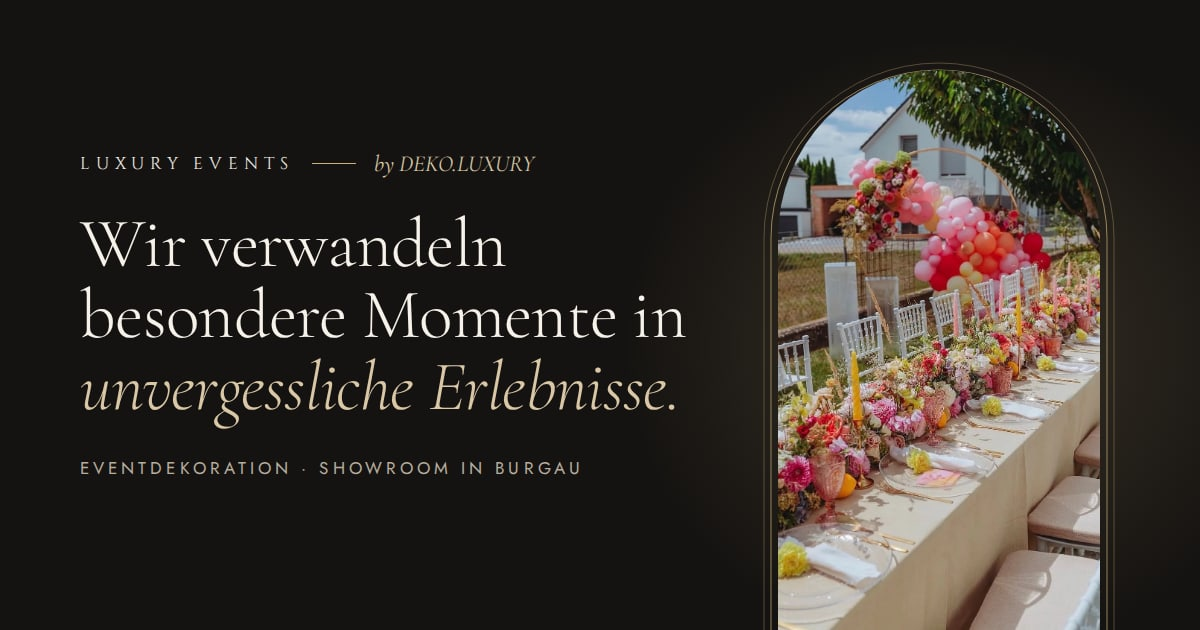
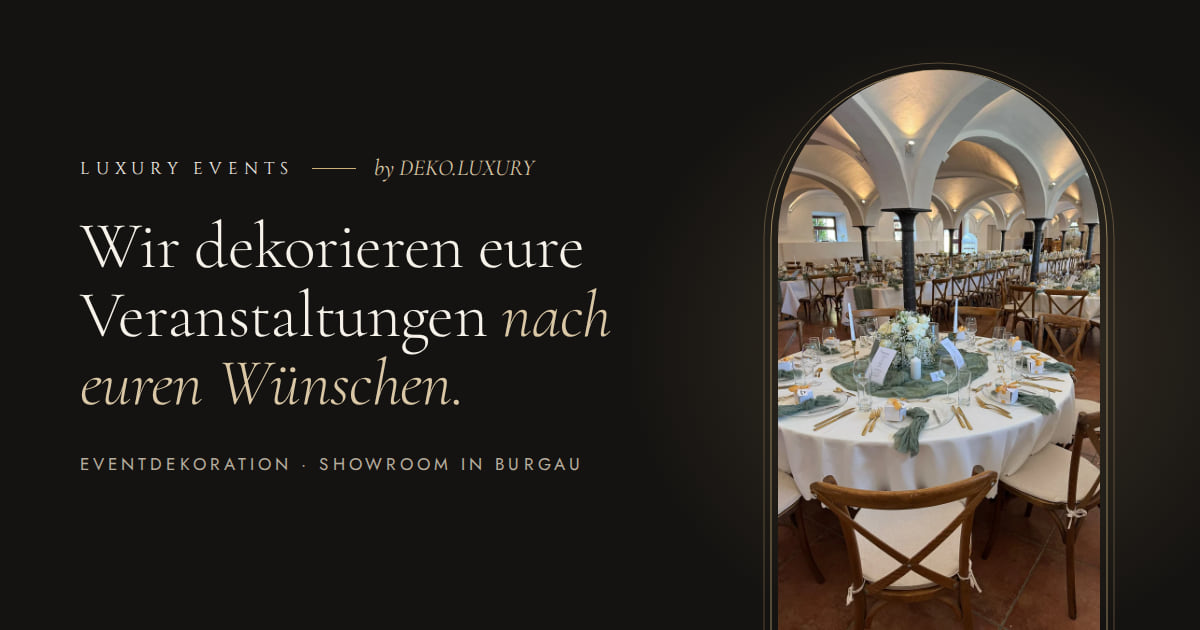
Use the new photos and add phone, WhatsApp and Instagram
- Replace all previous photos with five new ones (galerie-01 … 05):
  hero slideshow, "Über uns" and the gallery (3 on top, 2 centred below;
  two columns on phones). Old portfolio, service and style images removed.
- Phone/WhatsApp +49 179 4310823 and Instagram @deko.luxury wired into
  every contact button, footer, FAQ, imprint and structured data. Links
  are also in the HTML so they work without JavaScript.
- Privacy page mentions the WhatsApp and Instagram links.
- New social preview image with the current slogan and photo.
- Image tool and README updated to the new file names.

Claude-Session: https://claude.ai/code/session_01E6abPdmqHFWZudjWYUttDe

diff --git a/deko-luxury/index.html b/deko-luxury/index.html
@@ -30,7 +30,7 @@
 
   <link rel="preload" href="assets/fonts/cormorant-garamond.woff2" as="font" type="font/woff2" crossorigin>
   <link rel="preload" href="assets/fonts/jost.woff2" as="font" type="font/woff2" crossorigin>
-  <link rel="preload" as="image" href="assets/img/portfolio-02-800.webp" imagesrcset="assets/img/portfolio-02-600.webp 600w, assets/img/portfolio-02-800.webp 800w, assets/img/portfolio-02-1600.webp 1600w" imagesizes="(min-width: 900px) 40vw, 68vw" fetchpriority="high">
+  <link rel="preload" as="image" href="assets/img/galerie-01-900.webp" imagesrcset="assets/img/galerie-01-600.webp 600w, assets/img/galerie-01-900.webp 900w, assets/img/galerie-01-1500.webp 1500w" imagesizes="(min-width: 900px) 40vw, 68vw" fetchpriority="high">
   <link rel="stylesheet" href="assets/css/style.css">
   <script>
     (function (d) {
@@ -44,7 +44,7 @@
   <script src="assets/js/main.js" defer></script>
 
   <!-- Strukturierte Daten (Local SEO). Nur echte Angaben verwenden.
-       TODO ergänzen, sobald bekannt: "url", "image", "logo" (absolute URLs), "telephone", "sameAs" (Instagram-Profil).
+       TODO ergänzen, sobald die Domain feststeht: "url", "image", "logo" (absolute URLs).
        Öffnungszeiten laut Inhaber: 24/7. -->
   <script type="application/ld+json">
   {
@@ -55,6 +55,8 @@
     "slogan": "Wir dekorieren eure Veranstaltungen nach euren Wünschen",
     "description": "Eventdekoration für Hochzeiten, Geburtstage, Firmenveranstaltungen und private Feiern – individuell geplant und mit Liebe zum Detail umgesetzt. Showroom in Burgau.",
     "email": "deko.luxury@gmx.de",
+    "telephone": "+49 179 4310823",
+    "sameAs": ["https://www.instagram.com/deko.luxury/"],
     "address": {
       "@type": "PostalAddress",
       "streetAddress": "Kapuzinerstr. 4",
@@ -138,7 +140,7 @@
         "name": "Wie erreichen wir euch am schnellsten?",
         "acceptedAnswer": {
           "@type": "Answer",
-          "text": "Über das Anfrageformular oder per E-Mail an deko.luxury@gmx.de."
+          "text": "Per Telefon oder WhatsApp unter +49 179 4310823, über das Anfrageformular oder per E-Mail an deko.luxury@gmx.de."
         }
       }
     ]
@@ -264,8 +266,7 @@
           <p class="hero__lead">Hochzeiten, Geburtstage, Firmenfeiern und private Feste – individuell geplant und mit Liebe zum Detail umgesetzt. Showroom in Burgau.</p>
           <div class="hero__actions">
             <a class="btn btn--foil" href="#kontakt" data-cta>Beratung anfragen <svg class="btn__arrow" viewBox="0 0 34 10" aria-hidden="true"><path d="M0 5h32M28 1l4 4-4 4"/></svg></a>
-            <!-- WhatsApp-Nummer in assets/js/main.js unter KONTAKT eintragen (TODO) -->
-            <a class="btn btn--ghost" href="#kontakt" data-contact="whatsapp"><svg class="btn__icon" viewBox="0 0 24 24" aria-hidden="true"><use href="#i-whatsapp"/></svg>WhatsApp</a>
+            <a class="btn btn--ghost" href="https://wa.me/491794310823" target="_blank" rel="noopener" data-contact="whatsapp"><svg class="btn__icon" viewBox="0 0 24 24" aria-hidden="true"><use href="#i-whatsapp"/></svg>WhatsApp</a>
           </div>
           <p class="status status--hero"><span class="status__dot" aria-hidden="true"></span><span><strong>Jetzt geöffnet</strong> · 24/7 · Kapuzinerstr. 4, Burgau</span></p>
         </div>
@@ -277,13 +278,13 @@
               <path pathLength="1" d="M0 645 V270 A270 270 0 0 1 540 270 V645"/>
             </svg>
             <div class="hero__window">
-              <img class="hero__slide is-active" src="assets/img/portfolio-02-800.webp" srcset="assets/img/portfolio-02-600.webp 600w, assets/img/portfolio-02-800.webp 800w, assets/img/portfolio-02-1600.webp 1600w" sizes="(min-width: 900px) 40vw, 68vw" width="1600" height="2019" fetchpriority="high" decoding="async" data-cat="Table Styling" data-title="Sommertafel im Garten" alt="Lange Gartentafel mit üppigen Blumen in Pink, Koralle und Gelb, Kerzen, Goldbesteck und Ballonbogen">
-              <img class="hero__slide" src="assets/img/portfolio-08-800.webp" srcset="assets/img/portfolio-08-600.webp 600w, assets/img/portfolio-08-800.webp 800w, assets/img/portfolio-08-1600.webp 1600w" sizes="(min-width: 900px) 40vw, 68vw" width="1600" height="1981" loading="lazy" decoding="async" data-cat="Birthdays" data-title="Unterwasserwelt zum ersten Geburtstag" alt="Ballongirlande in Hellblau und Weiß mit Seesternen, Quallen und Fischernetz an einer weißen Rundwand zum ersten Geburtstag">
-              <img class="hero__slide" src="assets/img/portfolio-03-800.webp" srcset="assets/img/portfolio-03-600.webp 600w, assets/img/portfolio-03-800.webp 800w, assets/img/portfolio-03-1600.webp 1600w" sizes="(min-width: 900px) 40vw, 68vw" width="1600" height="2127" loading="lazy" decoding="async" data-cat="Birthdays" data-title="Erdbeeren zum ersten Geburtstag" alt="Rosa Bogenwand mit Ballongirlande, Erdbeer-Folienballons und leuchtender 1 zum ersten Geburtstag">
+              <img class="hero__slide is-active" src="assets/img/galerie-01-900.webp" srcset="assets/img/galerie-01-600.webp 600w, assets/img/galerie-01-900.webp 900w, assets/img/galerie-01-1500.webp 1500w" sizes="(min-width: 900px) 40vw, 68vw" width="1500" height="2000" fetchpriority="high" decoding="async" data-cat="Table Styling" data-title="Festsaal in Salbeigrün &amp; Gold" alt="Festsaal mit weißen Gewölbebögen, runden Tafeln in Weiß, salbeigrünen Läufern und Servietten, Goldbesteck, weißen Blumen und Kerzen">
+              <img class="hero__slide" src="assets/img/galerie-02-900.webp" srcset="assets/img/galerie-02-600.webp 600w, assets/img/galerie-02-900.webp 900w, assets/img/galerie-02-1500.webp 1179w" sizes="(min-width: 900px) 40vw, 68vw" width="1179" height="1563" loading="lazy" decoding="async" data-cat="Baby Party" data-title="Oh Baby in Weiß" alt="Leuchtbuchstaben „OH BABY“ vor einer weißen Ballonwand, dazu eine runde Tafel mit weißen Ballons, Teddybär, Kerzen und Pampasgras unter Lichterketten">
+              <img class="hero__slide" src="assets/img/galerie-03-900.webp" srcset="assets/img/galerie-03-600.webp 600w, assets/img/galerie-03-900.webp 900w, assets/img/galerie-03-1500.webp 1500w" sizes="(min-width: 900px) 40vw, 68vw" width="1500" height="2000" loading="lazy" decoding="async" data-cat="Table Styling" data-title="Sommertafel mit Blüten &amp; Limetten" alt="Nahaufnahme einer Tafel mit Dahlien, Hortensien und gelben Blüten, salbeigrünem Läufer, grünen Kristallgläsern und Limetten auf den Tellern">
             </div>
           </div>
           <figcaption class="hero__cap">
-            <span class="hero__cap-text"><span class="hero__cap-cat" data-slide-cat>Table Styling</span><span class="hero__cap-title" data-slide-title>Sommertafel im Garten</span></span>
+            <span class="hero__cap-text"><span class="hero__cap-cat" data-slide-cat>Table Styling</span><span class="hero__cap-title" data-slide-title>Festsaal in Salbeigrün &amp; Gold</span></span>
             <span class="hero__cap-count" data-slide-count>01 / 03</span>
             <button type="button" class="hero__pause" data-slide-pause aria-pressed="false" aria-label="Bildwechsel pausieren"><svg viewBox="0 0 24 24" aria-hidden="true"><path class="i-pause" d="M9 6v12M15 6v12"/><path class="i-play" d="M8 5.5v13l11-6.5z"/></svg></button>
           </figcaption>
@@ -344,7 +345,7 @@
           </ul>
         </div>
         <figure class="about__media" data-reveal-img>
-          <span class="about__frame"><span class="about__par"><img src="assets/img/stil-700.webp" srcset="assets/img/stil-700.webp 700w, assets/img/stil-1400.webp 1400w" sizes="(min-width: 900px) 40vw, 92vw" width="1400" height="1587" loading="lazy" decoding="async" alt="Sesselecke mit weißen Bögen, Blumen in Creme und gedecktem Tisch im warmen Licht"></span></span>
+          <span class="about__frame"><span class="about__par"><img src="assets/img/galerie-04-600.webp" srcset="assets/img/galerie-04-600.webp 600w, assets/img/galerie-04-900.webp 900w, assets/img/galerie-04-1500.webp 909w" sizes="(min-width: 900px) 40vw, 92vw" width="909" height="1600" loading="lazy" decoding="async" alt="Hauseingang mit weißem Blütenkreis, Satinschleife an der Tür, weißem Läufer, Blumensäule und Willkommensschild"></span></span>
           <span class="about__badge" aria-hidden="true"><svg viewBox="0 0 100 100"><circle cx="50" cy="50" r="47"/><use href="#monogram" x="28.5" y="27" width="43" height="44.4"/></svg></span>
         </figure>
       </div>
@@ -444,39 +445,33 @@
         </header>
         <ul class="gal" data-gallery-grid>
           <li class="gal__item" data-reveal style="--d:0.00s">
-            <button type="button" class="gal__card" data-gallery="portfolio" data-full="assets/img/portfolio-02-1600.webp" data-category="Table Styling" data-title="Sommertafel im Garten" data-eventtyp="" data-location="" data-konzept="" data-beschreibung="">
-              <span class="gal__media"><img src="assets/img/portfolio-02-800.webp" srcset="assets/img/portfolio-02-600.webp 600w, assets/img/portfolio-02-800.webp 800w, assets/img/portfolio-02-1600.webp 1600w" sizes="(min-width: 900px) 30vw, 46vw" width="1600" height="2019" loading="lazy" decoding="async" alt="Lange Gartentafel mit üppigen Blumen in Pink, Koralle und Gelb, Kerzen, Goldbesteck und Ballonbogen"></span>
-              <span class="gal__cap"><span class="gal__cat">Table Styling</span><span class="gal__title">Sommertafel im Garten</span><span class="gal__more" aria-hidden="true">Ansehen <svg viewBox="0 0 24 24"><path d="M5 12h14M13 6l6 6-6 6"/></svg></span></span>
+            <button type="button" class="gal__card" data-gallery="portfolio" data-full="assets/img/galerie-01-1500.webp" data-category="Table Styling" data-title="Festsaal in Salbeigrün &amp; Gold" data-eventtyp="" data-location="" data-konzept="" data-beschreibung="">
+              <span class="gal__media"><img src="assets/img/galerie-01-600.webp" srcset="assets/img/galerie-01-600.webp 600w, assets/img/galerie-01-900.webp 900w, assets/img/galerie-01-1500.webp 1500w" sizes="(min-width: 900px) 30vw, 46vw" width="1500" height="2000" loading="lazy" decoding="async" alt="Festsaal mit weißen Gewölbebögen, runden Tafeln in Weiß, salbeigrünen Läufern und Servietten, Goldbesteck, weißen Blumen und Kerzen"></span>
+              <span class="gal__cap"><span class="gal__cat">Table Styling</span><span class="gal__title">Festsaal in Salbeigrün &amp; Gold</span><span class="gal__more" aria-hidden="true">Ansehen <svg viewBox="0 0 24 24"><path d="M5 12h14M13 6l6 6-6 6"/></svg></span></span>
             </button>
           </li>
           <li class="gal__item" data-reveal style="--d:0.08s">
-            <button type="button" class="gal__card" data-gallery="portfolio" data-full="assets/img/portfolio-07-1600.webp" data-category="Birthdays" data-title="Schwarz &amp; Gold zum 30." data-eventtyp="Geburtstag" data-location="" data-konzept="" data-beschreibung="">
-              <span class="gal__media"><img src="assets/img/portfolio-07-800.webp" srcset="assets/img/portfolio-07-600.webp 600w, assets/img/portfolio-07-800.webp 800w, assets/img/portfolio-07-1600.webp 1600w" sizes="(min-width: 900px) 30vw, 46vw" width="1600" height="1185" loading="lazy" decoding="async" alt="Geburtstagsdekoration in Schwarz und Gold mit runder Rückwand „Happy 30th Birthday“ und leuchtender 30"></span>
-              <span class="gal__cap"><span class="gal__cat">Birthdays</span><span class="gal__title">Schwarz &amp; Gold zum 30.</span><span class="gal__more" aria-hidden="true">Ansehen <svg viewBox="0 0 24 24"><path d="M5 12h14M13 6l6 6-6 6"/></svg></span></span>
+            <button type="button" class="gal__card" data-gallery="portfolio" data-full="assets/img/galerie-02-1500.webp" data-category="Baby Party" data-title="Oh Baby in Weiß" data-eventtyp="Baby-Party" data-location="" data-konzept="" data-beschreibung="">
+              <span class="gal__media"><img src="assets/img/galerie-02-600.webp" srcset="assets/img/galerie-02-600.webp 600w, assets/img/galerie-02-900.webp 900w, assets/img/galerie-02-1500.webp 1179w" sizes="(min-width: 900px) 30vw, 46vw" width="1179" height="1563" loading="lazy" decoding="async" alt="Leuchtbuchstaben „OH BABY“ vor einer weißen Ballonwand, dazu eine runde Tafel mit weißen Ballons, Teddybär, Kerzen und Pampasgras unter Lichterketten"></span>
+              <span class="gal__cap"><span class="gal__cat">Baby Party</span><span class="gal__title">Oh Baby in Weiß</span><span class="gal__more" aria-hidden="true">Ansehen <svg viewBox="0 0 24 24"><path d="M5 12h14M13 6l6 6-6 6"/></svg></span></span>
             </button>
           </li>
           <li class="gal__item" data-reveal style="--d:0.16s">
-            <button type="button" class="gal__card" data-gallery="portfolio" data-full="assets/img/portfolio-01-1600.webp" data-category="Baby Party" data-title="Oh Baby im Schnee" data-eventtyp="Baby-Party" data-location="" data-konzept="" data-beschreibung="">
-              <span class="gal__media"><img src="assets/img/portfolio-01-800.webp" srcset="assets/img/portfolio-01-600.webp 600w, assets/img/portfolio-01-800.webp 800w, assets/img/portfolio-01-1600.webp 1600w" sizes="(min-width: 900px) 30vw, 46vw" width="1600" height="900" loading="lazy" decoding="async" alt="Leuchtbuchstaben „OH BABY“ mit Ballonbogen in Blau, Rosé und Kupfer vor verschneiter Berglandschaft"></span>
-              <span class="gal__cap"><span class="gal__cat">Baby Party</span><span class="gal__title">Oh Baby im Schnee</span><span class="gal__more" aria-hidden="true">Ansehen <svg viewBox="0 0 24 24"><path d="M5 12h14M13 6l6 6-6 6"/></svg></span></span>
+            <button type="button" class="gal__card" data-gallery="portfolio" data-full="assets/img/galerie-03-1500.webp" data-category="Table Styling" data-title="Sommertafel mit Blüten &amp; Limetten" data-eventtyp="" data-location="" data-konzept="" data-beschreibung="">
+              <span class="gal__media"><img src="assets/img/galerie-03-600.webp" srcset="assets/img/galerie-03-600.webp 600w, assets/img/galerie-03-900.webp 900w, assets/img/galerie-03-1500.webp 1500w" sizes="(min-width: 900px) 30vw, 92vw" width="1500" height="2000" loading="lazy" decoding="async" alt="Nahaufnahme einer Tafel mit Dahlien, Hortensien und gelben Blüten, salbeigrünem Läufer, grünen Kristallgläsern und Limetten auf den Tellern"></span>
+              <span class="gal__cap"><span class="gal__cat">Table Styling</span><span class="gal__title">Sommertafel mit Blüten &amp; Limetten</span><span class="gal__more" aria-hidden="true">Ansehen <svg viewBox="0 0 24 24"><path d="M5 12h14M13 6l6 6-6 6"/></svg></span></span>
             </button>
           </li>
-          <li class="gal__item" data-reveal style="--d:0.00s">
-            <button type="button" class="gal__card" data-gallery="portfolio" data-full="assets/img/portfolio-04-1600.webp" data-category="Lounge &amp; Details" data-title="Lounge in Creme und Weiß" data-eventtyp="" data-location="" data-konzept="" data-beschreibung="">
-              <span class="gal__media"><img src="assets/img/portfolio-04-800.webp" srcset="assets/img/portfolio-04-600.webp 600w, assets/img/portfolio-04-800.webp 800w, assets/img/portfolio-04-1600.webp 1600w" sizes="(min-width: 900px) 30vw, 46vw" width="1192" height="1998" loading="lazy" decoding="async" alt="Lounge mit weißen Bögen, Plüschsesseln, Blumen in Creme und Neonschrift"></span>
-              <span class="gal__cap"><span class="gal__cat">Lounge &amp; Details</span><span class="gal__title">Lounge in Creme und Weiß</span><span class="gal__more" aria-hidden="true">Ansehen <svg viewBox="0 0 24 24"><path d="M5 12h14M13 6l6 6-6 6"/></svg></span></span>
+          <li class="gal__item" data-reveal style="--d:0.04s">
+            <button type="button" class="gal__card" data-gallery="portfolio" data-full="assets/img/galerie-04-1500.webp" data-category="Welcome &amp; Entrance" data-title="Empfang mit Blütenkreis" data-eventtyp="" data-location="" data-konzept="" data-beschreibung="">
+              <span class="gal__media"><img src="assets/img/galerie-04-600.webp" srcset="assets/img/galerie-04-600.webp 600w, assets/img/galerie-04-900.webp 900w, assets/img/galerie-04-1500.webp 909w" sizes="(min-width: 900px) 30vw, 46vw" width="909" height="1600" loading="lazy" decoding="async" alt="Hauseingang mit weißem Blütenkreis, Satinschleife an der Tür, weißem Läufer, Blumensäule und Willkommensschild"></span>
+              <span class="gal__cap"><span class="gal__cat">Welcome &amp; Entrance</span><span class="gal__title">Empfang mit Blütenkreis</span><span class="gal__more" aria-hidden="true">Ansehen <svg viewBox="0 0 24 24"><path d="M5 12h14M13 6l6 6-6 6"/></svg></span></span>
             </button>
           </li>
-          <li class="gal__item" data-reveal style="--d:0.08s">
-            <button type="button" class="gal__card" data-gallery="portfolio" data-full="assets/img/portfolio-08-1600.webp" data-category="Birthdays" data-title="Unterwasserwelt zum ersten Geburtstag" data-eventtyp="Kindergeburtstag" data-location="" data-konzept="" data-beschreibung="">
-              <span class="gal__media"><img src="assets/img/portfolio-08-800.webp" srcset="assets/img/portfolio-08-600.webp 600w, assets/img/portfolio-08-800.webp 800w, assets/img/portfolio-08-1600.webp 1600w" sizes="(min-width: 900px) 30vw, 46vw" width="1600" height="1981" loading="lazy" decoding="async" alt="Ballongirlande in Hellblau und Weiß mit Seesternen, Quallen und Fischernetz an einer weißen Rundwand zum ersten Geburtstag"></span>
-              <span class="gal__cap"><span class="gal__cat">Birthdays</span><span class="gal__title">Unterwasserwelt zum ersten Geburtstag</span><span class="gal__more" aria-hidden="true">Ansehen <svg viewBox="0 0 24 24"><path d="M5 12h14M13 6l6 6-6 6"/></svg></span></span>
-            </button>
-          </li>
-          <li class="gal__item" data-reveal style="--d:0.16s">
-            <button type="button" class="gal__card" data-gallery="portfolio" data-full="assets/img/portfolio-03-1600.webp" data-category="Birthdays" data-title="Erdbeeren zum ersten Geburtstag" data-eventtyp="Kindergeburtstag" data-location="" data-konzept="" data-beschreibung="">
-              <span class="gal__media"><img src="assets/img/portfolio-03-800.webp" srcset="assets/img/portfolio-03-600.webp 600w, assets/img/portfolio-03-800.webp 800w, assets/img/portfolio-03-1600.webp 1600w" sizes="(min-width: 900px) 30vw, 46vw" width="1600" height="2127" loading="lazy" decoding="async" alt="Rosa Bogenwand mit Ballongirlande, Erdbeer-Folienballons und leuchtender 1 zum ersten Geburtstag"></span>
-              <span class="gal__cap"><span class="gal__cat">Birthdays</span><span class="gal__title">Erdbeeren zum ersten Geburtstag</span><span class="gal__more" aria-hidden="true">Ansehen <svg viewBox="0 0 24 24"><path d="M5 12h14M13 6l6 6-6 6"/></svg></span></span>
+          <li class="gal__item" data-reveal style="--d:0.12s">
+            <button type="button" class="gal__card" data-gallery="portfolio" data-full="assets/img/galerie-05-1500.webp" data-category="Birthdays" data-title="Ballonwand in Grün &amp; Navy" data-eventtyp="Geburtstag" data-location="" data-konzept="" data-beschreibung="">
+              <span class="gal__media"><img src="assets/img/galerie-05-600.webp" srcset="assets/img/galerie-05-600.webp 600w, assets/img/galerie-05-900.webp 900w, assets/img/galerie-05-1500.webp 1125w" sizes="(min-width: 900px) 30vw, 46vw" width="1125" height="2000" loading="lazy" decoding="async" alt="Geburtstags-Rückwand in Navy und Karo mit Ballongirlande in Grün, Navy und Creme, Teddy-Aufsteller und Schaukelpferd aus Holz"></span>
+              <span class="gal__cap"><span class="gal__cat">Birthdays</span><span class="gal__title">Ballonwand in Grün &amp; Navy</span><span class="gal__more" aria-hidden="true">Ansehen <svg viewBox="0 0 24 24"><path d="M5 12h14M13 6l6 6-6 6"/></svg></span></span>
             </button>
           </li>
         </ul>
@@ -585,16 +580,17 @@
           <h2 class="h2" id="contact-title" data-reveal>Erzählt uns von <em class="foil-deep">eurem Event.</em></h2>
           <p class="contact__lead" data-reveal>Anlass, Datum, Ideen – schreibt uns ein paar Zeilen. Wir melden uns schnell und persönlich bei euch.</p>
 
-          <!-- Telefon, WhatsApp und Instagram in assets/js/main.js unter KONTAKT eintragen (TODO). -->
+          <!-- Telefon, WhatsApp und Instagram zentral in assets/js/main.js unter KONTAKT pflegen. -->
           <ul class="quick" data-reveal>
             <li><a class="quick__btn" href="mailto:deko.luxury@gmx.de" data-contact="email"><svg viewBox="0 0 24 24" aria-hidden="true"><use href="#i-mail"/></svg><span><strong>E-Mail</strong><small data-contact-label>deko.luxury@gmx.de</small></span></a></li>
-            <li><a class="quick__btn" href="#kontakt" data-contact="phone"><svg viewBox="0 0 24 24" aria-hidden="true"><use href="#i-phone"/></svg><span><strong>Kurz anrufen</strong><small data-contact-label>Nummer folgt</small></span></a></li>
-            <li><a class="quick__btn" href="#kontakt" data-contact="whatsapp"><svg viewBox="0 0 24 24" aria-hidden="true"><use href="#i-whatsapp"/></svg><span><strong>WhatsApp</strong><small data-contact-label>Nummer folgt</small></span></a></li>
-            <li><a class="quick__btn" href="#kontakt" data-contact="instagram"><svg viewBox="0 0 24 24" aria-hidden="true"><use href="#i-instagram"/></svg><span><strong>Instagram</strong><small data-contact-label>Profil folgt</small></span></a></li>
+            <li><a class="quick__btn" href="tel:+491794310823" data-contact="phone"><svg viewBox="0 0 24 24" aria-hidden="true"><use href="#i-phone"/></svg><span><strong>Kurz anrufen</strong><small data-contact-label>+49 179 4310823</small></span></a></li>
+            <li><a class="quick__btn" href="https://wa.me/491794310823" target="_blank" rel="noopener" data-contact="whatsapp"><svg viewBox="0 0 24 24" aria-hidden="true"><use href="#i-whatsapp"/></svg><span><strong>WhatsApp</strong><small data-contact-label>Chat starten</small></span></a></li>
+            <li><a class="quick__btn" href="https://www.instagram.com/deko.luxury/" target="_blank" rel="noopener" data-contact="instagram"><svg viewBox="0 0 24 24" aria-hidden="true"><use href="#i-instagram"/></svg><span><strong>Instagram</strong><small data-contact-label>@deko.luxury</small></span></a></li>
           </ul>
 
           <dl class="contact__list" data-reveal>
             <div><dt>Showroom</dt><dd>Kapuzinerstr. 4, Burgau 89331</dd></div>
+            <div><dt>Telefon</dt><dd><a href="tel:+491794310823" data-contact="phone"><span data-contact-label>+49 179 4310823</span></a></dd></div>
             <div><dt>Geöffnet</dt><dd><span class="status status--inline"><span class="status__dot" aria-hidden="true"></span><span><strong>24/7</strong> · jetzt geöffnet</span></span></dd></div>
           </dl>
         </div>
@@ -697,10 +693,9 @@
             <summary class="faq__q"><span>Was kostet eine Dekoration?</span><span class="faq__icon" aria-hidden="true"></span></summary>
             <div class="faq__a"><p>Jede Dekoration ist individuell. Der Preis hängt vom Umfang, der Location und euren Wünschen ab – sprecht uns an, dann klären wir alles im Erstgespräch.</p></div>
           </details>
-          <!-- TODO: Sobald Telefon/WhatsApp feststehen, in der letzten Antwort ergänzen. -->
           <details class="faq__item" data-reveal style="--d:0.25s">
             <summary class="faq__q"><span>Wie erreichen wir euch am schnellsten?</span><span class="faq__icon" aria-hidden="true"></span></summary>
-            <div class="faq__a"><p>Über das Anfrageformular oder per E-Mail an <a href="mailto:deko.luxury@gmx.de">deko.luxury@gmx.de</a>.</p></div>
+            <div class="faq__a"><p>Per Telefon oder WhatsApp unter <a href="tel:+491794310823">+49 179 4310823</a>, über das Anfrageformular oder per E-Mail an <a href="mailto:deko.luxury@gmx.de">deko.luxury@gmx.de</a>.</p></div>
           </details>
         </div>
       </div>
@@ -724,8 +719,8 @@
           <h2 class="footer__title">Kontakt</h2>
           <ul>
             <li><a href="mailto:deko.luxury@gmx.de" data-contact="email">deko.luxury@gmx.de</a></li>
-            <li><a href="#kontakt" data-contact="phone"><span data-contact-label>Telefon folgt</span></a></li>
-            <li><a href="#kontakt" data-contact="whatsapp"><span data-contact-label>WhatsApp folgt</span></a></li>
+            <li><a href="tel:+491794310823" data-contact="phone"><span data-contact-label>+49 179 4310823</span></a></li>
+            <li><a href="https://wa.me/491794310823" target="_blank" rel="noopener" data-contact="whatsapp">WhatsApp</a></li>
             <li><a href="#kontakt">Anfrage stellen</a></li>
           </ul>
         </div>
@@ -745,7 +740,7 @@
             <li><a href="datenschutz.html">Datenschutz</a></li>
             <li><button type="button" class="footer__btn" data-open-consent>Cookie-Einstellungen</button></li>
           </ul>
-          <a class="footer__social" href="#kontakt" data-contact="instagram"><svg viewBox="0 0 24 24" aria-hidden="true"><use href="#i-instagram"/></svg><span data-contact-label>Instagram folgt</span></a>
+          <a class="footer__social" href="https://www.instagram.com/deko.luxury/" target="_blank" rel="noopener" data-contact="instagram"><svg viewBox="0 0 24 24" aria-hidden="true"><use href="#i-instagram"/></svg><span data-contact-label>@deko.luxury</span></a>
         </div>
       </div>
     </div>
@@ -759,11 +754,11 @@
   <!-- Mini-Leiste „Beratung anfragen“: erscheint beim Scrollen, verschwindet am Kontaktformular -->
   <div class="action-bar" data-action-bar>
     <a class="action-bar__main" href="#kontakt" data-cta>Beratung anfragen</a>
-    <a class="action-bar__icon" href="#kontakt" data-contact="whatsapp" aria-label="WhatsApp"><svg viewBox="0 0 24 24" aria-hidden="true"><use href="#i-whatsapp"/></svg></a>
+    <a class="action-bar__icon" href="https://wa.me/491794310823" target="_blank" rel="noopener" data-contact="whatsapp" aria-label="WhatsApp-Chat starten"><svg viewBox="0 0 24 24" aria-hidden="true"><use href="#i-whatsapp"/></svg></a>
     <a class="action-bar__icon" href="mailto:deko.luxury@gmx.de" data-contact="email" aria-label="E-Mail an deko.luxury@gmx.de schreiben"><svg viewBox="0 0 24 24" aria-hidden="true"><use href="#i-mail"/></svg></a>
   </div>
 
-  <!-- Hinweis-Toast (z. B. wenn eine Nummer noch fehlt) -->
+  <!-- Hinweis-Toast (z. B. wenn ein Kontaktweg in KONTAKT leer ist) -->
   <div class="toast" role="status" aria-live="polite" data-toast hidden><span class="toast__text" data-toast-text></span></div>
 
   <!-- Bestätigung nach dem Absenden -->

diff --git a/deko-luxury/assets/css/style.css b/deko-luxury/assets/css/style.css
@@ -746,7 +746,7 @@ address { font-style: normal; }
 .pillar__title { font-family: var(--serif); font-weight: 400; font-size: 1.55rem; line-height: 1.15; }
 .pillar__text { color: var(--muted); margin-top: 4px; }
 .about__media { position: relative; outline: 1px solid rgba(168, 131, 76, 0.38); outline-offset: 10px; margin: 10px; }
-.about__media img { width: 100%; height: auto; }
+.about__media img { width: 100%; height: auto; aspect-ratio: 4 / 5; object-fit: cover; object-position: 50% 55%; }
 .about__badge {
   position: absolute; left: -34px; bottom: -34px; width: clamp(86px, 8vw, 118px); aspect-ratio: 1;
   display: grid; place-items: center; border-radius: 50%;
@@ -806,8 +806,11 @@ address { font-style: normal; }
 /* ---------- 5. Galerie ---------- */
 .gallery { background: var(--ink); color: var(--ivory); }
 .gallery .section-head__text { color: var(--muted-light); }
-.gal { columns: 3; column-gap: clamp(14px, 1.6vw, 24px); }
-.gal__item { break-inside: avoid; margin-bottom: clamp(14px, 1.6vw, 24px); }
+/* 3 Bilder oben, 2 mittig darunter – jedes Bild in seinem eigenen Format */
+.gal { display: grid; grid-template-columns: repeat(6, minmax(0, 1fr)); gap: clamp(14px, 1.6vw, 24px); align-items: start; }
+.gal__item { grid-column: span 2; }
+.gal__item:nth-child(4) { grid-column: 2 / span 2; }
+.gal__item:nth-child(5) { grid-column: 4 / span 2; }
 .gal__card { position: relative; display: block; width: 100%; overflow: hidden; text-align: left; cursor: zoom-in; background: var(--char); }
 .gal__media { display: block; overflow: hidden; }
 .gal__media img { width: 100%; height: auto; transition: transform 1.4s var(--ease); }
@@ -1382,7 +1385,11 @@ address { font-style: normal; }
   .hero__arch { justify-self: center; width: min(70vw, 340px); }
   .hero__ornament { right: -40vw; width: 120vw; margin-top: -60vw; top: 30%; }
   .is-scrolled .site-header__inner { height: 64px; }
-  .gal { columns: 2; }
+  /* Mobil: zwei Spalten, die Tafel-Nahaufnahme als breites Bild am Ende */
+  .gal { grid-template-columns: repeat(2, minmax(0, 1fr)); }
+  .gal__item, .gal__item:nth-child(4), .gal__item:nth-child(5) { grid-column: auto; }
+  .gal__item:nth-child(3) { order: 5; grid-column: 1 / -1; }
+  .gal__item:nth-child(3) .gal__media img { aspect-ratio: 4 / 3; object-fit: cover; object-position: 50% 62%; }
   /* Zeitstrahl wird senkrecht */
   .timeline__line--h { display: none; }
   .timeline__line--v { display: block; left: 22px; top: 32px; width: 20px; height: var(--tl-h, calc(100% - 140px)); }
@@ -1434,8 +1441,7 @@ address { font-style: normal; }
   .svc__icon svg { width: 34px; height: 34px; }
   .svc__tag { margin-bottom: 4px; }
   .svc__link { padding-top: 12px; }
-  .gal { column-gap: 10px; }
-  .gal__item { margin-bottom: 10px; }
+  .gal { gap: 10px; }
   .gal__title { font-size: 0.98rem; }
   .gal__cat { font-size: 0.54rem; letter-spacing: 0.2em; }
   .gallery__cta .btn { width: 100%; }

diff --git a/deko-luxury/datenschutz.html b/deko-luxury/datenschutz.html
@@ -71,6 +71,7 @@
 
         <h2>8. Externe Links</h2>
         <p>Der Link „Route planen“ führt zu Google Maps. Erst wenn Sie ihn anklicken, werden Daten an Google übertragen; dort gilt die Datenschutzerklärung von Google.</p>
+        <p>Die Links zu WhatsApp und Instagram sind einfache Verweise; Inhalte dieser Dienste werden auf unserer Website nicht eingebunden. Erst wenn Sie einen dieser Links anklicken, werden Sie zum jeweiligen Dienst der Meta Platforms Ireland Ltd. weitergeleitet; dort gelten deren Datenschutzbestimmungen. Wenn Sie uns über WhatsApp schreiben, verarbeiten wir Ihre Nachricht und Telefonnummer, um Ihre Anfrage zu beantworten (Art. 6 Abs. 1 lit. b bzw. f DSGVO).</p>
 
         <h2>9. Ihre Rechte</h2>
         <p>Sie haben das Recht auf Auskunft (Art. 15 DSGVO), Berichtigung (Art. 16), Löschung (Art. 17), Einschränkung der Verarbeitung (Art. 18), Datenübertragbarkeit (Art. 20) sowie Widerspruch gegen die Verarbeitung (Art. 21 DSGVO). Eine erteilte Einwilligung können Sie jederzeit mit Wirkung für die Zukunft widerrufen. Außerdem können Sie sich bei einer Datenschutz-Aufsichtsbehörde beschweren, zum Beispiel beim Bayerischen Landesamt für Datenschutzaufsicht (BayLDA).</p>

diff --git a/deko-luxury/assets/js/main.js b/deko-luxury/assets/js/main.js
@@ -2,13 +2,13 @@
 
 /* ==========================================================================
    KONTAKTDATEN – hier eintragen, dann sind alle Buttons der Website verknüpft
-   (Startbereich, Kontakt, Footer, Mini-Leiste). Leer = Button zeigt „folgt“.
+   (Startbereich, Kontakt, Footer, Mini-Leiste). Leer = Button zeigt einen Hinweis.
    ========================================================================== */
 var KONTAKT = {
   email: 'deko.luxury@gmx.de',
-  telefon: '',    // TODO z. B. '+49 8222 123456'
-  whatsapp: '',   // TODO Nummer international ohne + und Leerzeichen, z. B. '491701234567'
-  instagram: '',  // TODO z. B. 'https://www.instagram.com/profilname/'
+  telefon: '+49 179 4310823',
+  whatsapp: '491794310823',  // international, ohne + und Leerzeichen
+  instagram: 'https://www.instagram.com/deko.luxury/',
   whatsappText: 'Hallo DEKO.LUXURY, wir interessieren uns für eine Dekoration.'
 };
 

diff --git a/deko-luxury/impressum.html b/deko-luxury/impressum.html
@@ -52,7 +52,7 @@
         <h2>Kontakt</h2>
         <p>
           E-Mail: <a href="mailto:deko.luxury@gmx.de">deko.luxury@gmx.de</a><br>
-          Telefon: <span class="ph">Telefonnummer</span>
+          Telefon: <a href="tel:+491794310823">+49 179 4310823</a>
         </p>
 
         <h2>Umsatzsteuer-ID</h2>

diff --git a/deko-luxury/README.md b/deko-luxury/README.md
@@ -53,31 +53,33 @@ Alle offenen Stellen sind im Code mit **TODO** markiert und auf der Seite gestri
 
 | Wo | Was fehlt |
 | --- | --- |
-| `assets/js/main.js` → `KONTAKT` (ganz oben) | **Telefon, WhatsApp, Instagram** eintragen. Danach sind alle Buttons auf der Website automatisch verknüpft. Solange ein Feld leer ist, zeigt der Button „folgt“ und beim Klick einen freundlichen Hinweis. |
 | `index.html` → Info-Streifen | **Bewertungen**: nur echte Angaben eintragen (z. B. „4,9 ★ · 37 Google-Bewertungen“) und auf das Profil verlinken. |
-| `index.html` → FAQ | Letzte Antwort um Telefon/WhatsApp ergänzen, sobald vorhanden. |
-| `index.html` → `<head>` | Domain eintragen: `canonical`, `og:url`, `og:image`. Strukturierte Daten ergänzen: `url`, `image`, `telephone`, `sameAs` (Instagram). |
+| `index.html` → `<head>` | Domain eintragen: `canonical`, `og:url`, `og:image`. Strukturierte Daten ergänzen: `url`, `image`, `logo`. Telefon und Instagram sind bereits eingetragen. |
 | `index.html` → Strukturierte Daten | `areaServed` enthält Burgau, Ulm und Augsburg. Bitte bestätigen oder anpassen. |
-| **Einverständnis** | Auf `portfolio-03` und `portfolio-08` sind Vornamen von Kindern zu lesen. Vor der Veröffentlichung das Einverständnis einholen oder ein anderes Foto wählen. |
-| `impressum.html` | Name, Rechtsform, Telefon, USt-IdNr., Verbraucherstreitbeilegung, Bildnachweise. Die Anschrift Kapuzinerstr. 4 ist eingetragen – bitte prüfen, ob sie auch die ladungsfähige Anschrift ist. |
+| **Einverständnis** | Auf `galerie-04` sind die Vornamen des Paares zu lesen (Willkommensschild), auf `galerie-05` ein Vorname (Geburtstagsschild). Auf `galerie-02` ist im Hintergrund ein Kennzeichen teilweise erkennbar. Vor der Veröffentlichung das Einverständnis einholen, unkenntlich machen oder ein anderes Foto wählen. |
+| `impressum.html` | Name, Rechtsform, USt-IdNr., Verbraucherstreitbeilegung, Bildnachweise. Telefon ist eingetragen. Die Anschrift Kapuzinerstr. 4 ist eingetragen – bitte prüfen, ob sie auch die ladungsfähige Anschrift ist. |
 | `datenschutz.html` | Hosting-Anbieter, E-Mail-Anbieter, Stand. Bitte rechtlich prüfen lassen. |
 | `sitemap.xml`, `robots.txt` | Domain eintragen. |
 | Karte | Die interaktive Karte zeigt Burgau. Für eine Stecknadel genau am Showroom die Koordinaten in `MAP_SRC` (`assets/js/main.js`) ergänzen (`&marker=Breite,Länge`). |
 | Logo | Aus dem Screenshot vektorisiert. Liegt die Originaldatei (SVG/PDF/AI) vor, `assets/brand/logo-gold.svg`, `logo-zeile.svg` und `monogramm.svg` damit ersetzen. |
 
-## Kontaktdaten eintragen
+## Kontaktdaten
 
-Ganz oben in `assets/js/main.js`:
+Ganz oben in `assets/js/main.js` stehen alle Kontaktwege. Die Buttons in Startbereich,
+Kontakt, Footer und Mini-Leiste werden daraus verknüpft:
 
 ```js
 var KONTAKT = {
   email: 'deko.luxury@gmx.de',
-  telefon: '+49 8222 123456',          // Beispiel
-  whatsapp: '491701234567',            // international, ohne + und Leerzeichen
-  instagram: 'https://www.instagram.com/profilname/',
+  telefon: '+49 179 4310823',
+  whatsapp: '491794310823',            // international, ohne + und Leerzeichen
+  instagram: 'https://www.instagram.com/deko.luxury/',
   whatsappText: 'Hallo DEKO.LUXURY, wir interessieren uns für eine Dekoration.'
 };
 ```
+
+Die Links stehen zusätzlich direkt im HTML, damit sie auch ohne JavaScript funktionieren.
+Ändert sich eine Nummer, bitte auch in `index.html` (Suche nach `4310823`) und im Impressum anpassen.
 
 ## Lokal ansehen
 
@@ -92,7 +94,7 @@ allerdings PHP und bietet automatisch den Versand per E-Mail-Programm an.
 ## Eigene Fotos einsetzen
 
 1. Fotos in den Ordner `bilder-original/` legen und wie das zu ersetzende Bild benennen,
-   z. B. `portfolio-04.jpg` oder `stil.jpg`.
+   z. B. `galerie-02.jpg` oder `galerie-04.jpg`.
 2. `npm install` (einmalig), dann `npm run bilder`.
 3. Das Skript erzeugt alle benötigten Größen als WebP in `assets/img/`.
 4. In `index.html` die **Alt-Texte** an das neue Motiv anpassen, z. B.
@@ -100,14 +102,14 @@ allerdings PHP und bietet automatisch den Versand per E-Mail-Programm an.
 
 | Datei | Bereich | Hinweis |
 | --- | --- | --- |
-| `portfolio-01` … `-08` | Galerie (01, 02, 03, 04, 07, 08) | Jedes Bild erscheint vollständig in seinem Format. 02, 08 und 03 laufen zusätzlich im Bogenfenster oben (Hochformat etwa 4:5 ideal). Mindestens 1600 px breit. 05 und 06 liegen bereit, falls ihr tauschen möchtet. |
-| `stil` | Über uns | Hochformat, mind. 1400 px |
+| `galerie-01` … `-05` | Galerie | Jedes Bild erscheint vollständig in seinem Format: drei oben, zwei mittig darunter. 01, 02 und 03 laufen zusätzlich im Bogenfenster oben (Hochformat 3:4 oder 4:5 ideal). Mindestens 1500 px breit. |
+| `galerie-04` | Über uns | Wird dort im Format 4:5 gezeigt (Ausschnitt mittig). |
 
 Neue Arbeit in der Galerie: in `index.html` einen `<li class="gal__item">`-Block kopieren und
 Bild, Kategorie und Titel anpassen.
 
-Die gelieferten Fotos waren nur 600–1200 px breit und wurden mit einem KI-Upscaler (ESRGAN)
-auf die doppelte Auflösung hochgerechnet. Am besten werden die Bilder mit den Originaldateien.
+Einige der gelieferten Fotos sind schmaler als 1500 px (02: 1179 px, 04: 909 px, 05: 1125 px).
+Sie werden nicht hochgerechnet; im `srcset` steht jeweils die echte Breite.
 
 ## KI-Bilder für Vorschau & Moodboards
 
